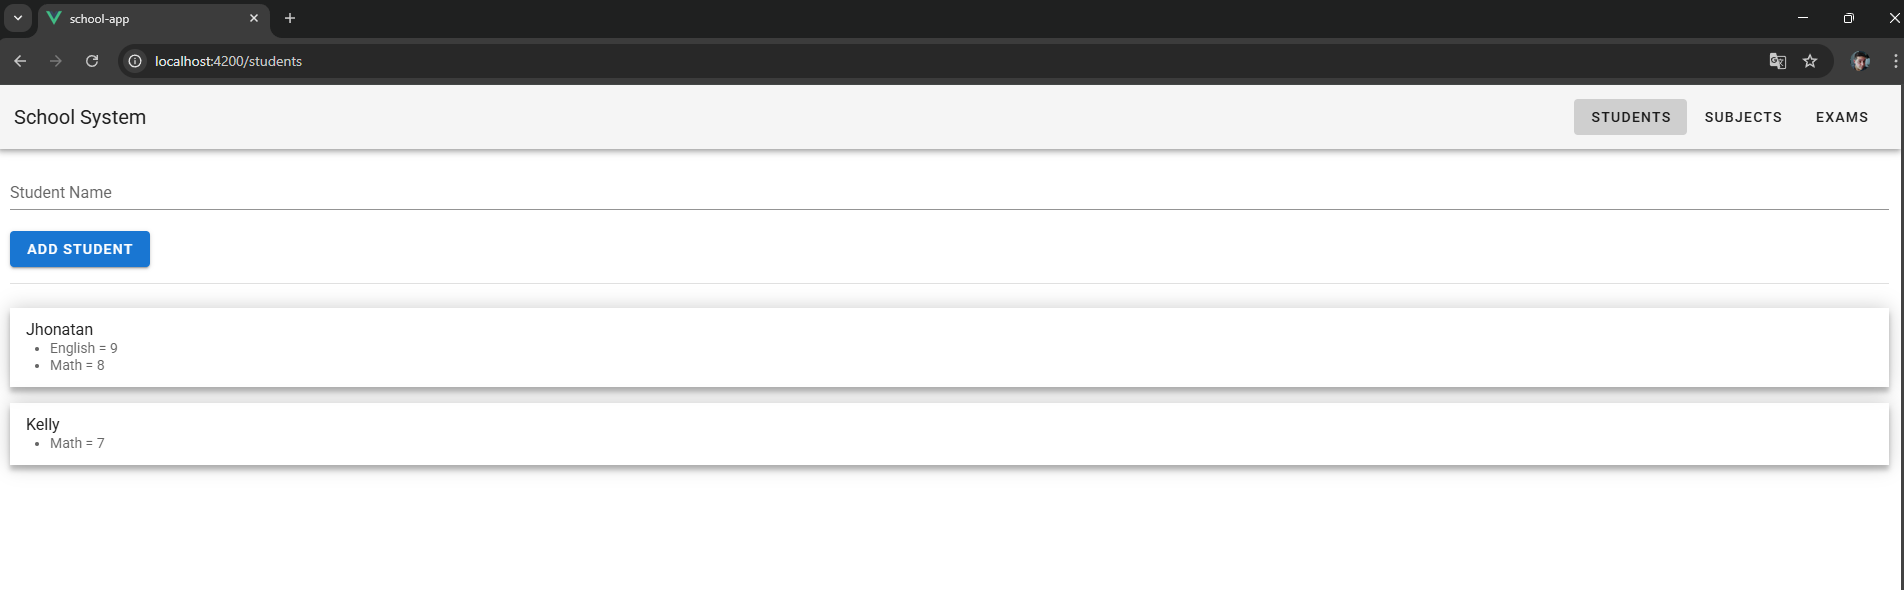
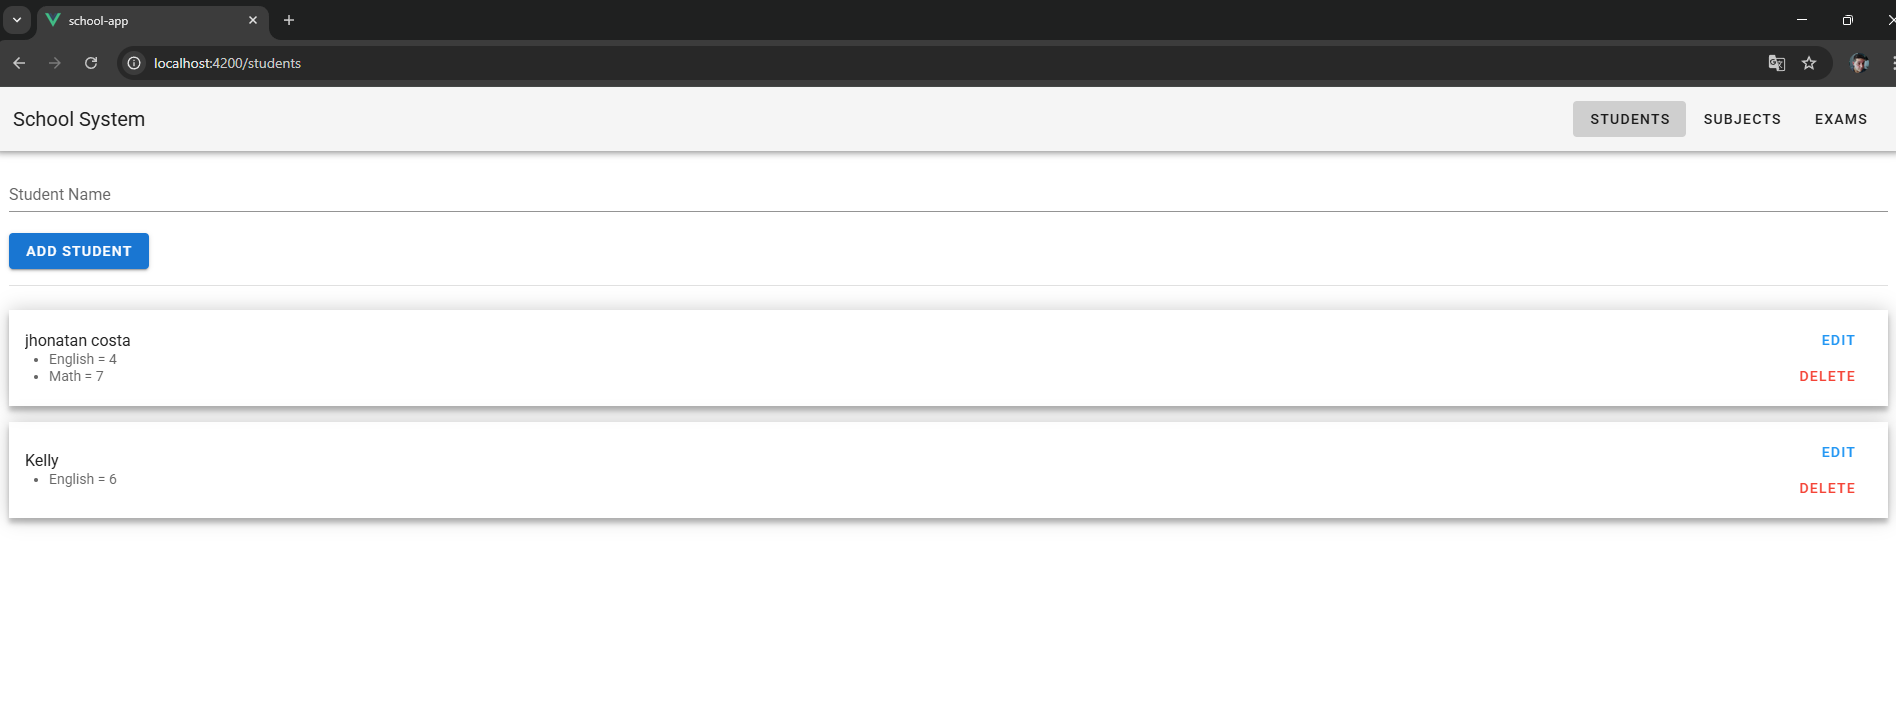
feat(app): added the edit and delete feature

Changed region(s): [[0.0, 0.0, 1.0, 1.0]]

diff --git a/src/components/subjects.vue b/src/components/subjects.vue
@@ -13,6 +13,10 @@
           <v-list-item-content>
             <v-list-item-title>{{ subject.name }}</v-list-item-title>
           </v-list-item-content>
+          <v-list-item-action>
+            <v-btn color="blue" text @click="editSubject(subject)">Edit</v-btn>
+            <v-btn color="red" text @click="deleteSubject(subject.id)">Delete</v-btn>
+          </v-list-item-action>
         </v-list-item>
       </v-list-item-group>
       <v-list-item v-else>
@@ -36,9 +40,37 @@ export default {
         id: Date.now(),
         name: this.newSubjectName,
       };
+      if (!this.newSubjectName || this.newSubjectName === "") {
+        return alert("Subject name cannot be empty!");
+      }
       this.subjects.push(newSubject);
-      localStorage.setItem("subjects", JSON.stringify(this.subjects));
+      this.saveSubjects();
       this.newSubjectName = "";
+    },
+    editSubject(subject) {
+      const updatedName = prompt("Edit subject name", subject.name);
+      if (updatedName) {
+        subject.name = updatedName;
+        this.saveSubjects();
+      }
+    },
+    deleteSubject(subjectId) {
+      const confirmed = confirm('Are you sure you want to delete this subject?');
+      if (confirmed) {
+        this.removeSubjectFromStudents(subjectId);
+        this.subjects = this.subjects.filter(subject => subject.id !== subjectId);
+        this.saveSubjects();
+      }
+    },
+    removeSubjectFromStudents(subjectId) {
+      const students = JSON.parse(localStorage.getItem('students')) || [];
+      students.forEach(student => {
+        student.subjects = student.subjects.filter(subject => subject.id !== subjectId);
+      });
+      localStorage.setItem('students', JSON.stringify(students));
+    },
+    saveSubjects() {
+      localStorage.setItem('subjects', JSON.stringify(this.subjects));
     },
   },
 };

diff --git a/src/components/students.vue b/src/components/students.vue
@@ -20,6 +20,10 @@
               </ul>
             </v-list-item-subtitle>
           </v-list-item-content>
+          <v-list-item-action>
+            <v-btn color="blue" text @click="editStudent(student)">Edit</v-btn>
+            <v-btn color="red" text @click="deleteStudent(student.id)">Delete</v-btn>
+          </v-list-item-action>
         </v-list-item>
       </v-list-item-group>
       <v-list-item v-else>
@@ -44,9 +48,30 @@ export default {
         name: this.newStudentName,
         subjects: [],
       };
+      if (!this.newStudentName || this.newStudentName === "") {
+        return alert("Student name cannot be empty!");
+      }
       this.students.push(newStudent);
-      localStorage.setItem("students", JSON.stringify(this.students));
+      this.saveStudents();
       this.newStudentName = "";
+    },
+
+    editStudent(student) {
+      const updatedName = prompt("Edit student's name", student.name);
+      if (updatedName) {
+        student.name = updatedName;
+        this.saveStudents();
+      }
+    },
+    deleteStudent(studentId) {
+      const confirmed = confirm('Are you sure you want to delete this student?');
+      if (confirmed) {
+        this.students = this.students.filter(student => student.id !== studentId);
+        this.saveStudents();
+      }
+    },
+    saveStudents() {
+      localStorage.setItem('students', JSON.stringify(this.students));
     },
   },
 };

diff --git a/src/components/exams.vue b/src/components/exams.vue
@@ -47,18 +47,13 @@ export default {
         const student = this.students.find((s) => s.id === this.selectedStudent);
         const subject = this.subjects.find((s) => s.id === this.selectedSubject);
 
-        // Verifica se a matéria já existe para o aluno, caso contrário, adiciona
         const existingSubject = student.subjects.find((s) => s.id === subject.id);
         if (existingSubject) {
           existingSubject.score = this.score;
         } else {
           student.subjects.push({ ...subject, score: this.score });
         }
-
-        // Atualiza o localStorage
         localStorage.setItem("students", JSON.stringify(this.students));
-
-        // Limpa os campos
         this.selectedStudent = null;
         this.selectedSubject = null;
         this.score = null;
